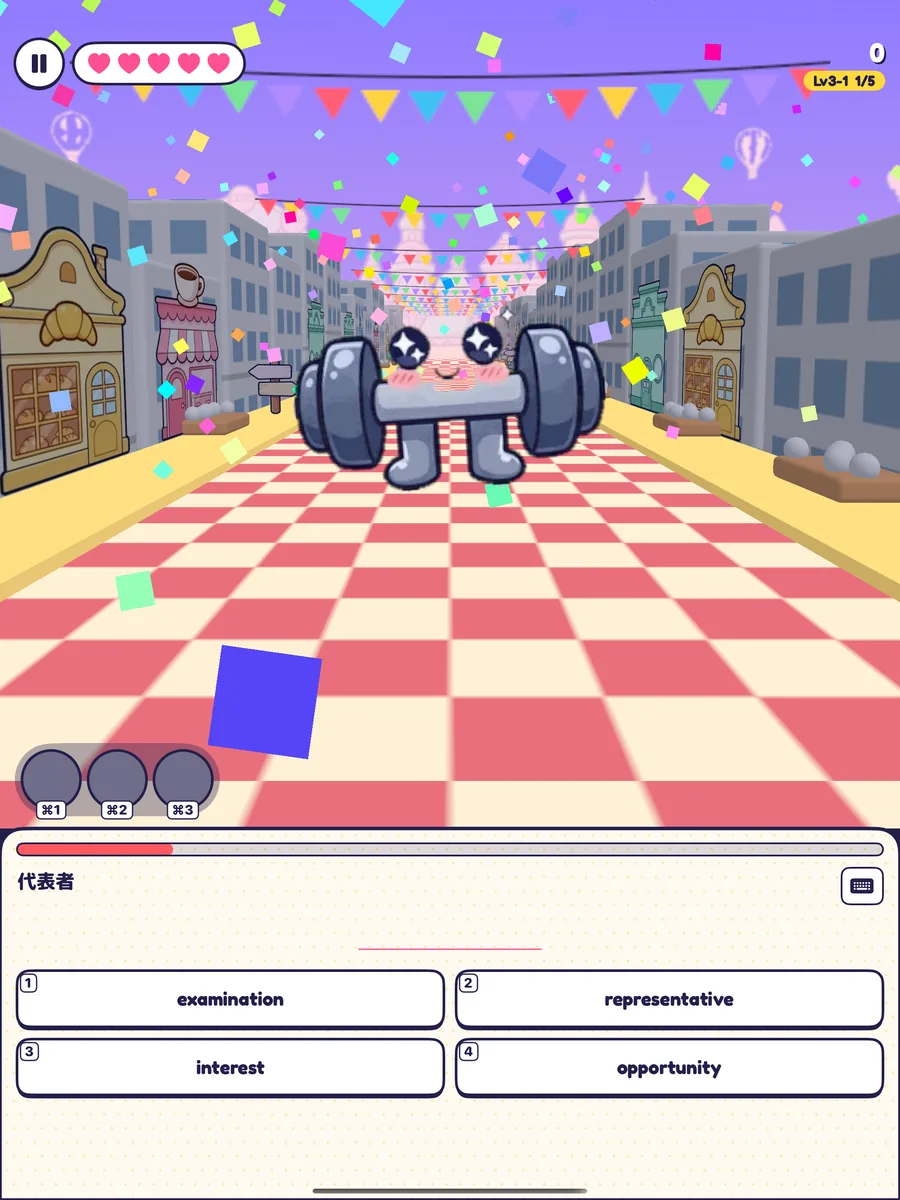
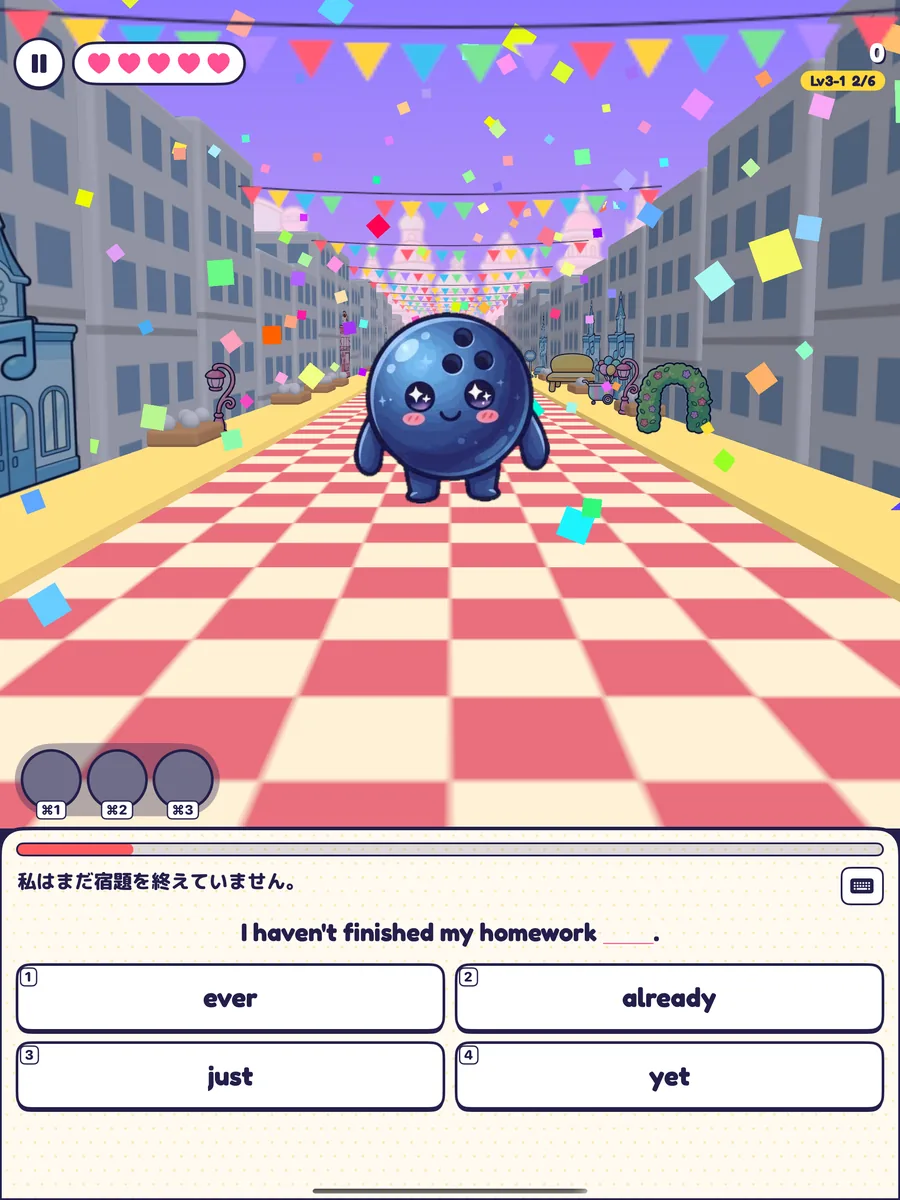
Nyanglish: clearer iPad game picture; launch price until Dec 26
Claude-Session: https://claude.ai/code/session_01SRzHXb2yKXiJH3m3hnsnhf

diff --git a/nyanglish/support.html b/nyanglish/support.html
@@ -33,7 +33,7 @@
 <h2>よくあるご質問</h2>
 <div class="faq">
 <details><summary>無料で遊べますか？</summary><p>ゲームの全ステージと勉強モードは無料で遊べます。無料版はゲームと勉強モードの画面に広告が表示されます。勉強モードは無料版でも回数制限なしです。</p></details>
-<details><summary>プレミアムの料金はいくらですか？</summary><p>通常 3,000円の買い切りです。配信記念価格として、配信から2週間は 1,500円でご購入いただけます。定期購入ではないため、自動で課金されることはありません。</p></details>
+<details><summary>プレミアムの料金はいくらですか？</summary><p>通常 3,000円の買い切りです。配信記念価格として、2026年12月26日までは 1,500円でご購入いただけます。定期購入ではないため、自動で課金されることはありません。</p></details>
 <details><summary>プレミアムで何が変わりますか？</summary><p>広告が出なくなり、TOEICモード（Part 1〜7・模擬試験）がすぐに使えるようになります（無料版は卒業試験のクリアで開放）。限定衣装「ゆかた」も使えます。</p></details>
 <details><summary>iPhone・iPad・Macで続きから遊べますか？</summary><p>はい。同じ Apple アカウントで iCloud にサインインしていれば、ゲームの進み具合・勉強の記録・単語帳・TOEICの記録が自動で同期されます。反映まで少し時間がかかることがあります。</p></details>
 <details><summary>購入を復元するには？</summary><p>「せってい」の「購入を復元」をタップしてください。同じ Apple アカウントなら、機種変更や再インストールのあとも使えます。</p></details>

diff --git a/nyanglish/index.html b/nyanglish/index.html
@@ -51,7 +51,7 @@
 <a class="btn btn-ghost" href="#price">料金を見る</a>
 </div>
 <div class="launch rise d3" data-budoux="1">
-<span>配信記念価格 · 配信から2週間</span>
+<span>配信記念価格 · 12月26日まで</span>
 <b>プレミアム（買い切り） <span class="nb">3,000円 → 1,500円</span></b>
 </div>
 </div>
@@ -127,7 +127,7 @@
 </div>
 </div>
 <div>
-<figure class="eg-typ-shot"><img src="img/screens/ipad_typing.webp" alt="iPadのゲーム画面。上でモンスターと戦い、下の答えの欄で英語を選ぶ・打つ" loading="lazy" width="900" height="1200"></figure>
+<figure class="eg-typ-shot"><img src="img/screens/ipad_typing.webp?v=2" alt="iPadのゲーム画面。上でモンスターと戦い、下の答えの欄で英語を選ぶ・打つ" loading="lazy" width="900" height="1200"></figure>
 <style>.eg-typ-shot{margin:0}.eg-typ-shot img{width:100%;max-width:520px;height:auto;display:block;margin:0 auto;border-radius:18px;border:3px solid var(--ink);box-shadow:0 6px 0 var(--ink)}</style>
 </div>
 </section>
@@ -189,7 +189,7 @@
 <p data-budoux="1">ゲームの全ステージと勉強モードは無料で遊べます（無料版は広告あり）。プレミアムは1回払いの買い切りで、定期購入ではありません。</p>
 </div>
 <div class="price-card">
-<span class="sale-badge">配信記念価格 · 配信から2週間</span>
+<span class="sale-badge">配信記念価格 · 12月26日まで</span>
 <p class="price" data-budoux="1"><span class="was">3,000円</span>1,500円 <small>買い切り</small></p>
 <ul>
 <li data-budoux="1">広告なし</li>
